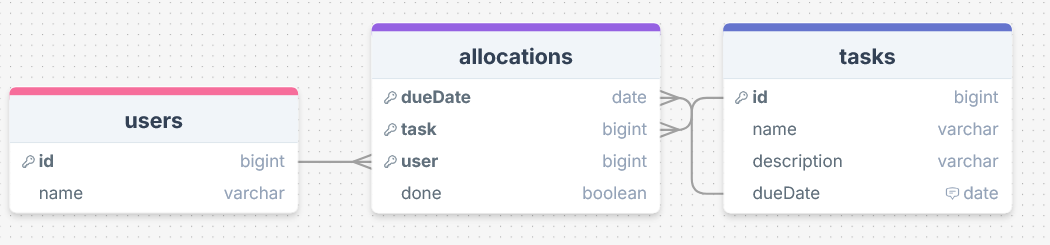
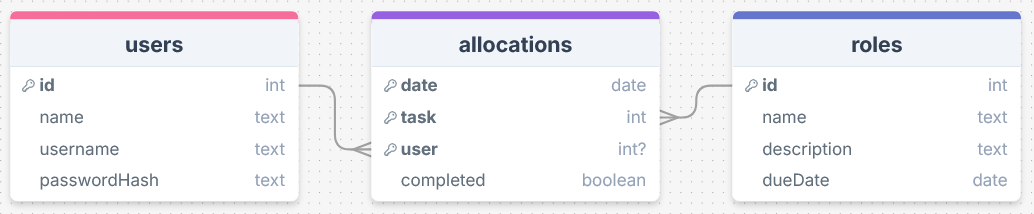
Finished database creation

diff --git a/docs/1-sprint-1-prototype.md b/docs/1-sprint-1-prototype.md
@@ -18,11 +18,14 @@ All of the tables can have entries with data I think is relevant to the use case
 ![Initial database design showing 3 linked tables](screenshots/database0.png)
 
 I showed and explained this to some of the officers at my unit, and they raised some good points:
-> - Users will need a username and password to log in to the system - and what about admins?
-> - Once roles have been allocated, people getting them done isn't an issue, so you don't need to track whether that role has been completed.
-> - Only one person can get allocated to a role each week, so the system you have to allocate multiple people to a task isn't neccesary.
+> - Once roles have been allocated, people getting them done isn't an issue we face, so you don't need to track whether that role has been completed.
+> - What users that need to be admins?
+> - We only want one person allocated to a role each week, so the system you have to allocate multiple people to a role isn't neccesary.
+> - Roles are the same each week, so the roles table doesn't need to track the date.
 
-As such I've updated the users table to enable a login system with optional admin permissions, removed the 'done' bool from allocations, and removed 'user' from the conjoint primary key from allocations, as this system isn't needed. I've also changed 'dueDate' to 'date' - this is a small change but it reflects, as per the feedback, the change from thinking about role allocations as tasks to be completed to thinking about them as an entry of when something will happen / happened:
+## Updated Database Design
+
+As such, I've removed the `completed` boolean column from roles, added an `admin` column to users, removed `user` from the compound primary key in allocations, and removed the date stamp from roles:
 
 ![Database design with above changes](screenshots/database1.png)
 
